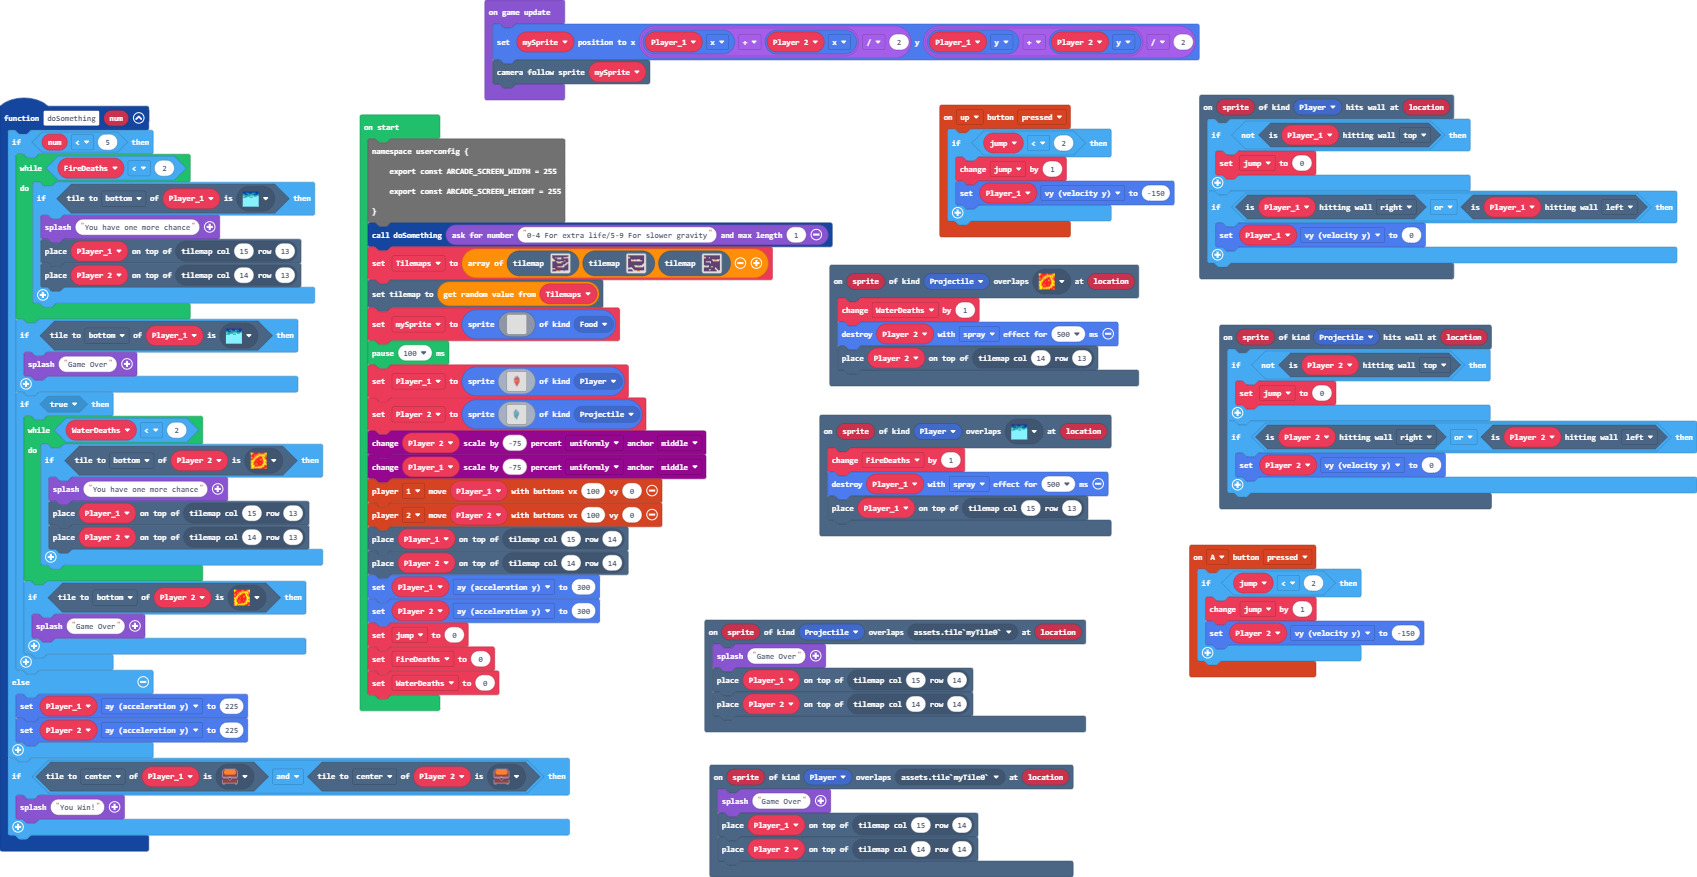
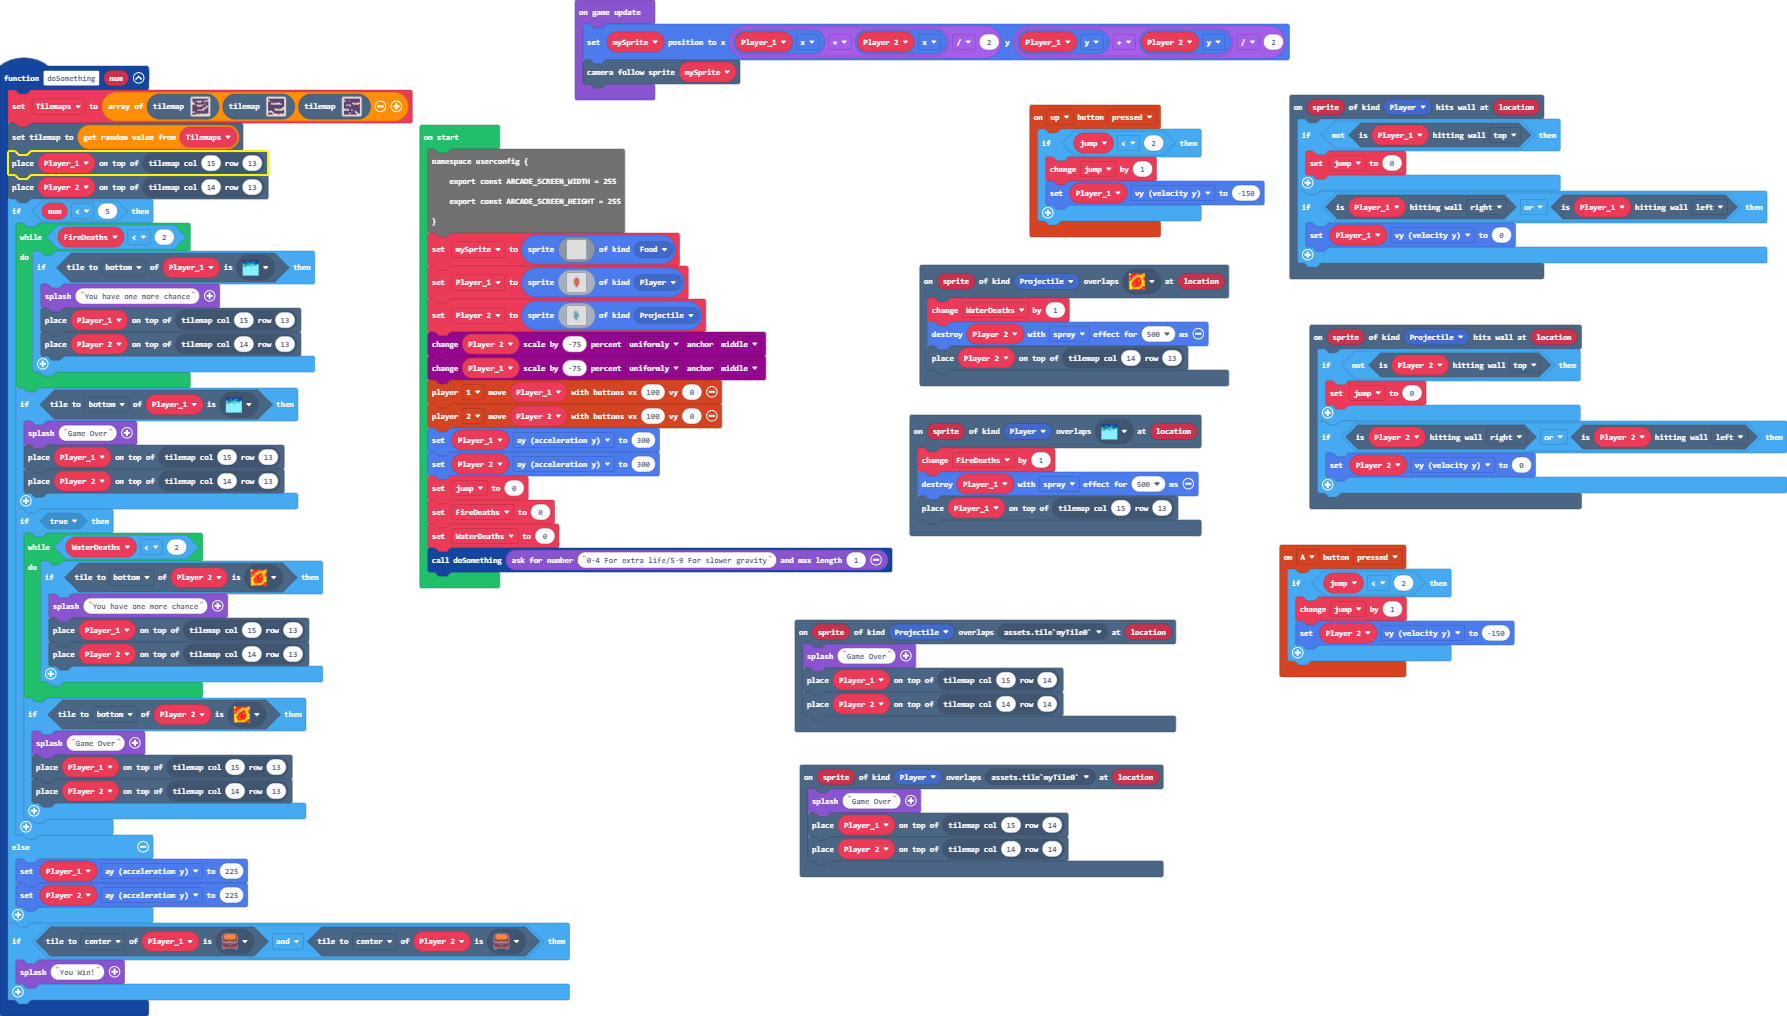
Update main.blocks, main.ts

diff --git a/main.ts b/main.ts
@@ -34,6 +34,10 @@ scene.onOverlapTile(SpriteKind.Projectile, assets.tile`myTile0`, function (sprit
     tiles.placeOnTile(Player_2, tiles.getTileLocation(14, 14))
 })
 function doSomething (num: number) {
+    Tilemaps = [tilemap`level 1`, tilemap`level3`, tilemap`level11`]
+    tiles.setCurrentTilemap(Tilemaps._pickRandom())
+    tiles.placeOnTile(Player_1, tiles.getTileLocation(15, 13))
+    tiles.placeOnTile(Player_2, tiles.getTileLocation(14, 13))
     if (num < 5) {
         while (FireDeaths < 2) {
             if (Player_1.tileKindAt(TileDirection.Bottom, sprites.dungeon.hazardWater)) {
@@ -44,6 +48,8 @@ function doSomething (num: number) {
         }
         if (Player_1.tileKindAt(TileDirection.Bottom, sprites.dungeon.hazardWater)) {
             game.splash("Game Over")
+            tiles.placeOnTile(Player_1, tiles.getTileLocation(15, 13))
+            tiles.placeOnTile(Player_2, tiles.getTileLocation(14, 13))
         }
         if (true) {
             while (WaterDeaths < 2) {
@@ -55,6 +61,8 @@ function doSomething (num: number) {
             }
             if (Player_2.tileKindAt(TileDirection.Bottom, sprites.dungeon.hazardLava0)) {
                 game.splash("Game Over")
+                tiles.placeOnTile(Player_1, tiles.getTileLocation(15, 13))
+                tiles.placeOnTile(Player_2, tiles.getTileLocation(14, 13))
             }
         }
     } else {
@@ -78,6 +86,7 @@ scene.onHitWall(SpriteKind.Projectile, function (sprite, location) {
         Player_2.vy = 0
     }
 })
+let Tilemaps: tiles.TileMapData[] = []
 let WaterDeaths = 0
 let FireDeaths = 0
 let jump = 0
@@ -87,9 +96,6 @@ namespace userconfig {
     export const ARCADE_SCREEN_WIDTH = 255
     export const ARCADE_SCREEN_HEIGHT = 255
 }
-doSomething(game.askForNumber("0-4 For extra life/5-9 For slower gravity", 1))
-let Tilemaps = [tilemap`level 1`, tilemap`level3`, tilemap`level11`]
-tiles.setCurrentTilemap(Tilemaps._pickRandom())
 let mySprite = sprites.create(img`
     . . . . . . . . . . . . . . . . 
     . . . . . . . . . . . . . . . . 
@@ -108,20 +114,18 @@ let mySprite = sprites.create(img`
     . . . . . . . . . . . . . . . . 
     . . . . . . . . . . . . . . . . 
     `, SpriteKind.Food)
-pause(100)
 Player_1 = sprites.create(assets.image`fire boy water girl`, SpriteKind.Player)
 Player_2 = sprites.create(assets.image`fire boy water girl0`, SpriteKind.Projectile)
 scaling.scaleByPercent(Player_2, -75, ScaleDirection.Uniformly, ScaleAnchor.Middle)
 scaling.scaleByPercent(Player_1, -75, ScaleDirection.Uniformly, ScaleAnchor.Middle)
 controller.player1.moveSprite(Player_1, 100, 0)
 controller.player2.moveSprite(Player_2, 100, 0)
-tiles.placeOnTile(Player_1, tiles.getTileLocation(15, 14))
-tiles.placeOnTile(Player_2, tiles.getTileLocation(14, 14))
 Player_1.ay = 300
 Player_2.ay = 300
 jump = 0
 FireDeaths = 0
 WaterDeaths = 0
+doSomething(game.askForNumber("0-4 For extra life/5-9 For slower gravity", 1))
 game.onUpdate(function () {
     mySprite.setPosition((Player_1.x + Player_2.x) / 2, (Player_1.y + Player_2.y) / 2)
     scene.cameraFollowSprite(mySprite)
